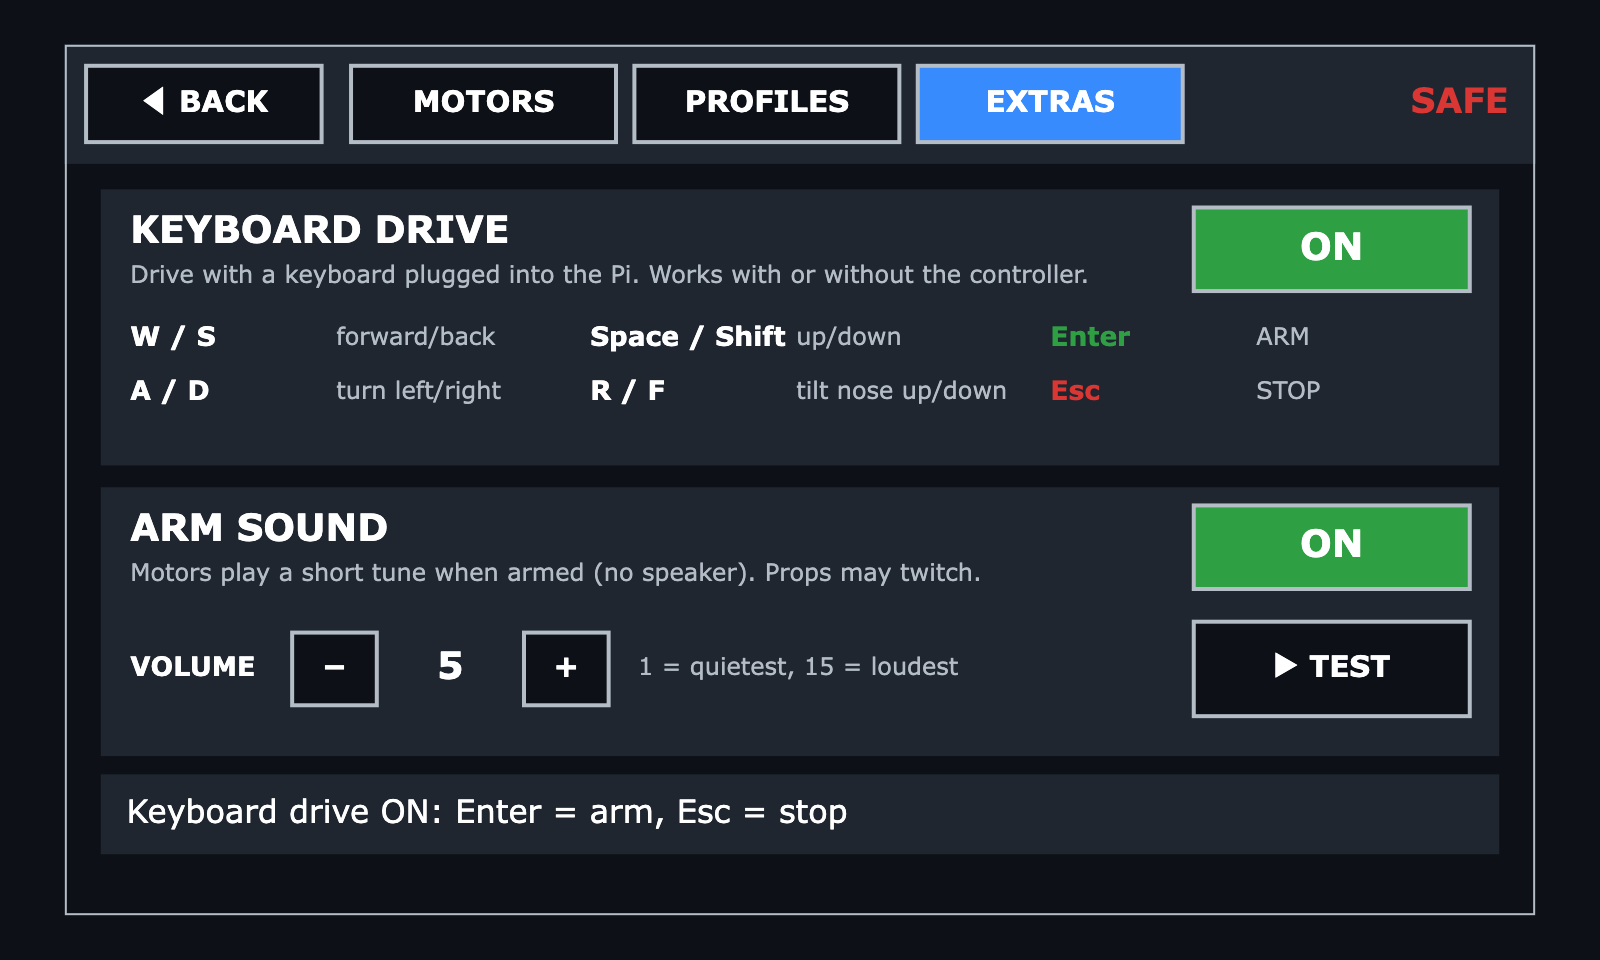
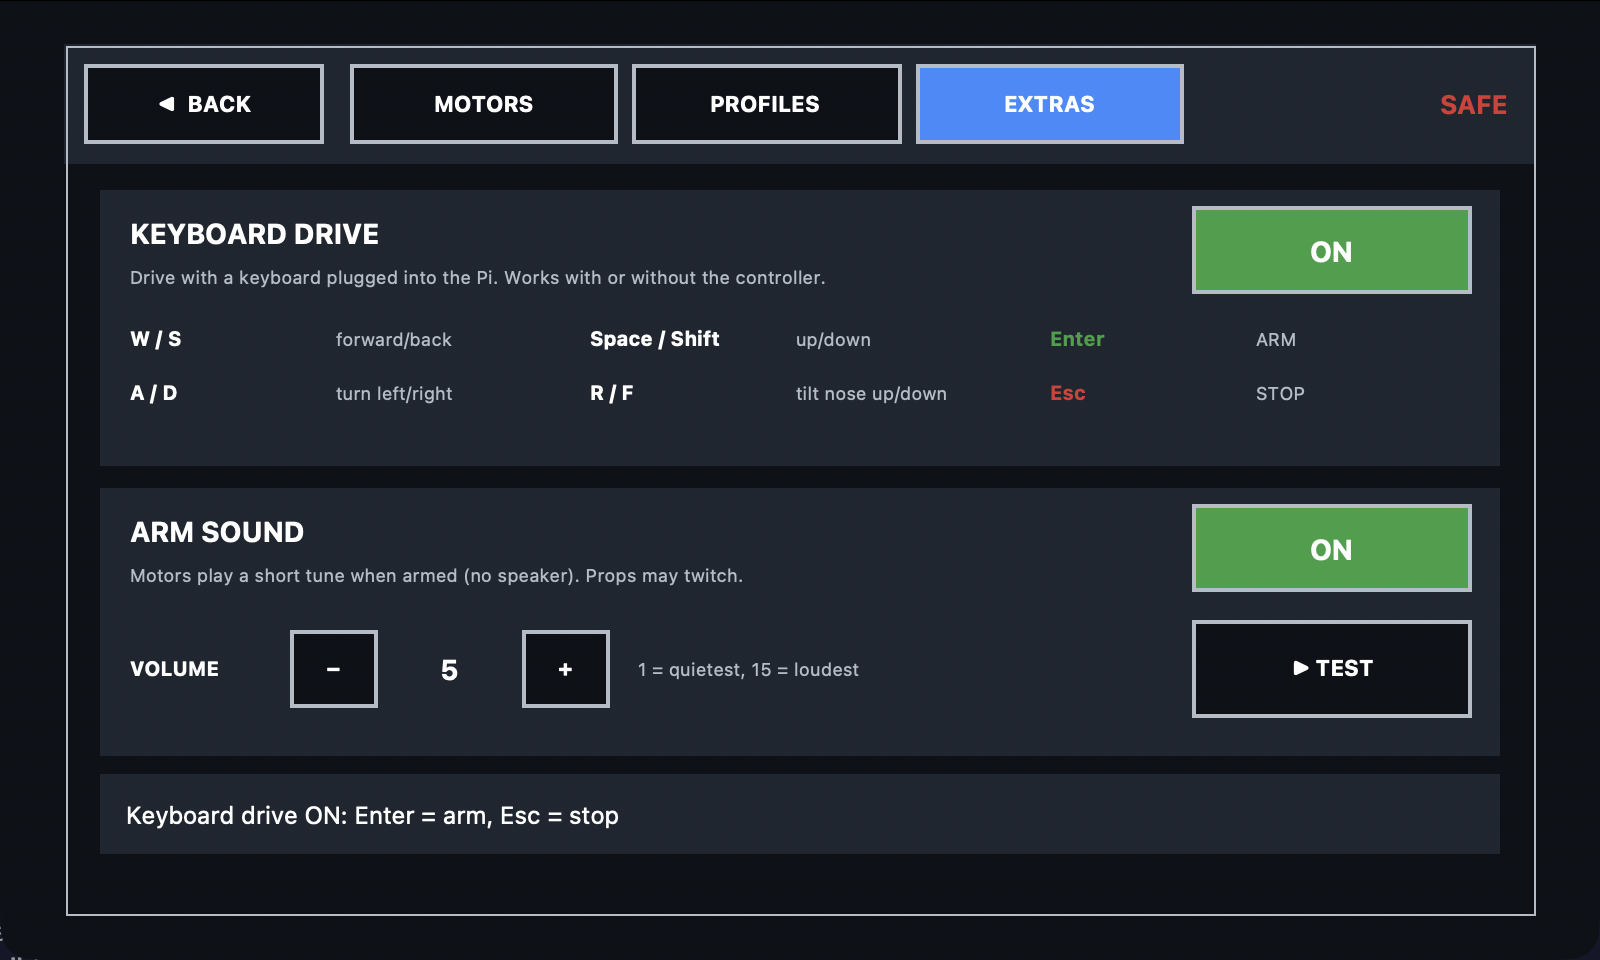
Real screenshots of the dashboard

diff --git a/README.md b/README.md
@@ -15,7 +15,7 @@ curl -fsSL https://raw.githubusercontent.com/codemastervy/underwater-rov/main/se
 - Nothing needs installing first, not even git.
 
 ## Screenshots
-Dashboard on the 800x480 case monitor:
+The dashboard (800x480), captured running on a computer with simulated ROV data; the camera picture is a placeholder:
 
 | Main (armed, driving) | Camera + picture adjustments |
 |---|---|
